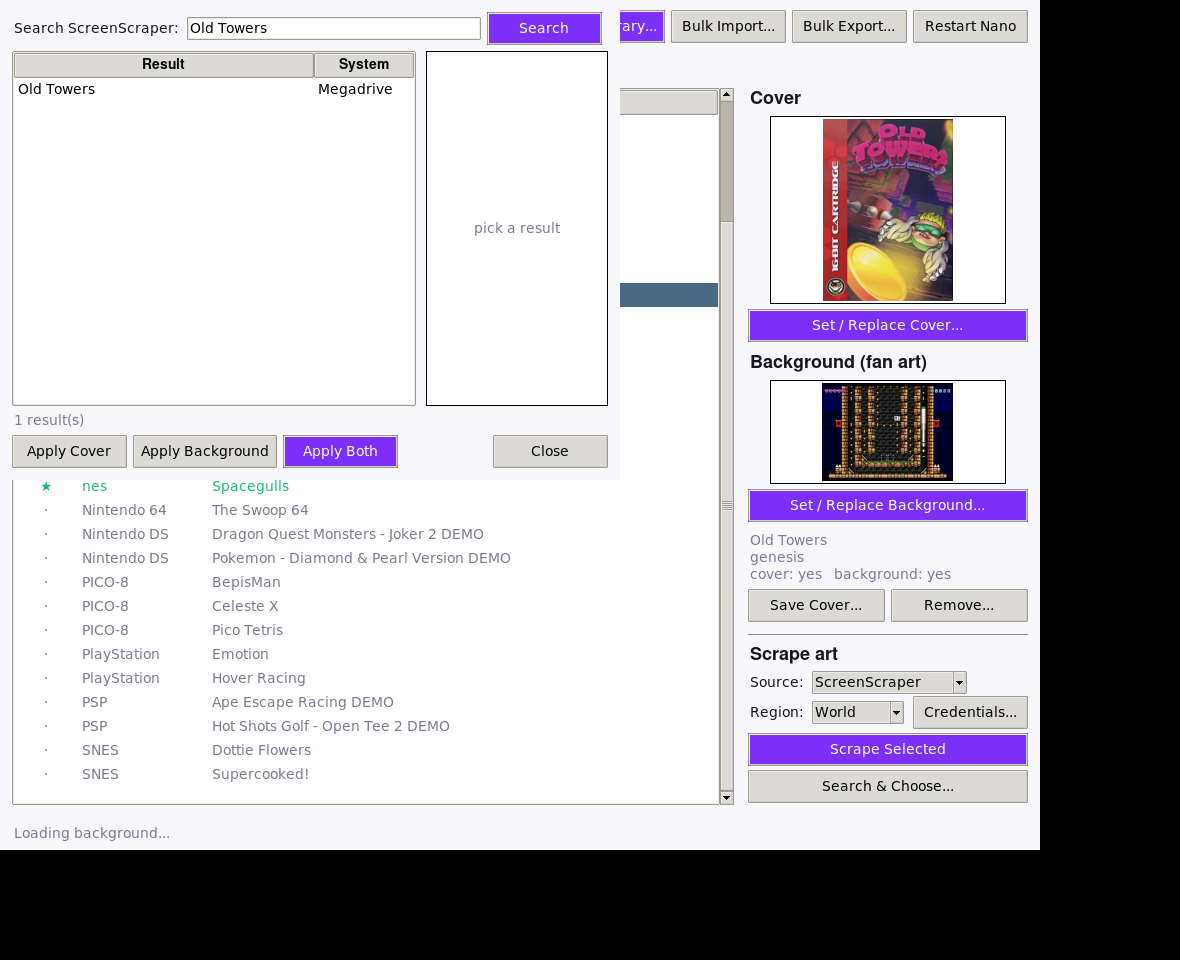
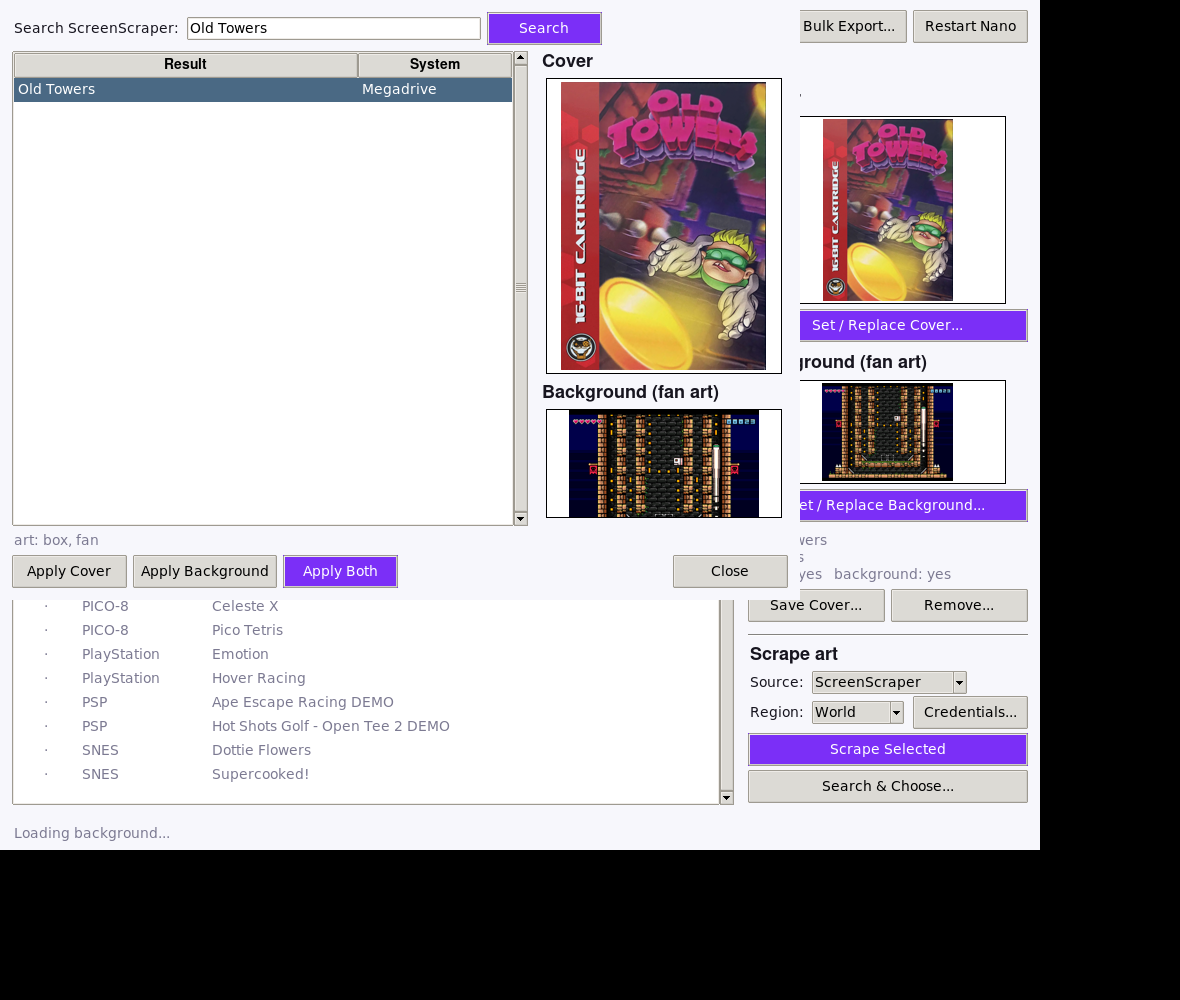
Fix scrape apply/refresh, show full art previews and game paths, v1.3.2
Search and Choose: the preview now shows the full cover and full background in fixed boxes (was clipped on Windows). Applying a chosen result, and every other device action, runs off the UI thread and reliably reloads the list, so covers appear without a manual refresh and Restart Nano no longer just spins. The game list gained a Path column (with horizontal scroll) and you can filter by path.

Changed region(s): [[0.0, 0.0, 0.8847, 0.9062], [0.0, 0.4375, 0.4271, 0.8125], [0.7932, 0.0, 0.8542, 0.0312]]

diff --git a/gammaos_boxart/gui.py b/gammaos_boxart/gui.py
@@ -102,20 +102,28 @@ class BoxartGUI(tk.Tk):
 
         left = ttk.Frame(main)
         left.pack(side=tk.LEFT, fill=tk.BOTH, expand=True)
-        cols = ("box", "system", "game")
-        self.tree = ttk.Treeview(left, columns=cols, show="headings", selectmode="extended")
+        # Tree + vertical scrollbar on top, horizontal scrollbar below (so the full
+        # game path is reachable even though it is wider than its column).
+        tv = ttk.Frame(left)
+        tv.pack(side=tk.TOP, fill=tk.BOTH, expand=True)
+        cols = ("box", "system", "game", "path")
+        self.tree = ttk.Treeview(tv, columns=cols, show="headings", selectmode="extended")
         self.tree.heading("box", text="Boxart")
         self.tree.heading("system", text="System")
         self.tree.heading("game", text="Game")
-        self.tree.column("box", width=64, anchor="center", stretch=False)
-        self.tree.column("system", width=130, stretch=False)
-        self.tree.column("game", width=360)
+        self.tree.heading("path", text="Path")
+        self.tree.column("box", width=56, anchor="center", stretch=False)
+        self.tree.column("system", width=110, stretch=False)
+        self.tree.column("game", width=230, stretch=False)
+        self.tree.column("path", width=300)
         self.tree.tag_configure("has", foreground="#1eb877")
         self.tree.tag_configure("no", foreground="#7c7a92")
-        vsb = ttk.Scrollbar(left, orient="vertical", command=self.tree.yview)
-        self.tree.configure(yscrollcommand=vsb.set)
+        vsb = ttk.Scrollbar(tv, orient="vertical", command=self.tree.yview)
+        hsb = ttk.Scrollbar(left, orient="horizontal", command=self.tree.xview)
+        self.tree.configure(yscrollcommand=vsb.set, xscrollcommand=hsb.set)
         self.tree.pack(side=tk.LEFT, fill=tk.BOTH, expand=True)
         vsb.pack(side=tk.LEFT, fill=tk.Y)
+        hsb.pack(side=tk.TOP, fill=tk.X)
         self.tree.bind("<<TreeviewSelect>>", self.on_select)
 
         # right: preview + actions
@@ -237,10 +245,11 @@ class BoxartGUI(tk.Tk):
         for i, g in enumerate(self.games):
             if only and not g.has_box:
                 continue
-            if q and q not in g.display.lower() and q not in g.system.lower():
+            if q and q not in g.display.lower() and q not in g.system.lower() \
+                    and q not in g.rom.lower():
                 continue
             mark = "★" if g.has_box else "·"
-            self.tree.insert("", "end", iid=str(i), values=(mark, g.system, g.display),
+            self.tree.insert("", "end", iid=str(i), values=(mark, g.system, g.display, g.rom),
                              tags=("has" if g.has_box else "no",))
 
     def _selected_game(self):
@@ -325,7 +334,7 @@ class BoxartGUI(tk.Tk):
         with tempfile.TemporaryDirectory() as td:
             self.bx.set_art(g.rom, img, td, kind=kind)
         self.bx.adb.restart_nano()
-        self.after(0, self.refresh)
+        self._load_games()
         self.after(0, lambda: self._set_status("Set %s for %s" % (
             "background" if kind == "fan" else "cover", g.display)))
 
@@ -357,7 +366,7 @@ class BoxartGUI(tk.Tk):
         with tempfile.TemporaryDirectory() as td:
             self.bx.remove_art(g.rom, td, kind=kind)
         self.bx.adb.restart_nano()
-        self.after(0, self.refresh)
+        self._load_games()
 
     def save_cover_as(self):
         g = self._selected_game()
@@ -384,7 +393,7 @@ class BoxartGUI(tk.Tk):
             applied, _ = self.bx.import_dir(d, td, mode="auto")
         if applied:
             self.bx.adb.restart_nano()
-        self.after(0, self.refresh)
+            self._load_games()
         self.after(0, lambda: self._set_status("Imported %d covers" % applied))
 
     def bulk_export(self):
@@ -597,8 +606,8 @@ class BoxartGUI(tk.Tk):
                     self.bx.adb.restart_nano()
                 except Exception:  # noqa: BLE001
                     pass
+                self._load_games()
             self.after(0, lambda: finish(matched, scanned, err))
-            self.after(0, self.refresh)
 
         threading.Thread(target=worker, daemon=True).start()
 
@@ -631,7 +640,8 @@ class BoxartGUI(tk.Tk):
         win = tk.Toplevel(self)
         win.title("Search and Choose - %s" % g.display)
         win.transient(self)
-        win.geometry("620x480")
+        win.geometry("800x600")
+        win.minsize(760, 560)
         win.grab_set()
 
         top = ttk.Frame(win, padding=(12, 12, 12, 6))
@@ -643,22 +653,69 @@ class BoxartGUI(tk.Tk):
 
         mid = ttk.Frame(win, padding=(12, 0))
         mid.pack(fill=tk.BOTH, expand=True)
-        res = ttk.Treeview(mid, columns=("t", "s"), show="headings", height=9, selectmode="browse")
+        lf = ttk.Frame(mid)
+        lf.pack(side=tk.LEFT, fill=tk.BOTH, expand=True)
+        res = ttk.Treeview(lf, columns=("t", "s"), show="headings", height=12, selectmode="browse")
         res.heading("t", text="Result")
         res.heading("s", text="System")
-        res.column("t", width=300)
-        res.column("s", width=100)
+        res.column("t", width=280)
+        res.column("s", width=90)
+        rsb = ttk.Scrollbar(lf, orient="vertical", command=res.yview)
+        res.configure(yscrollcommand=rsb.set)
         res.pack(side=tk.LEFT, fill=tk.BOTH, expand=True)
-        pv = tk.Label(mid, width=26, bg="#ffffff", relief="solid", bd=1, text="pick a result",
-                      fg="#7c7a92")
-        pv.pack(side=tk.LEFT, fill=tk.Y, padx=(10, 0))
+        rsb.pack(side=tk.LEFT, fill=tk.Y)
+
+        # Fixed-pixel preview boxes (Frame + pack_propagate off) so the cover and the
+        # background always render at a known size and are never clipped, on any platform.
+        pvcol = ttk.Frame(mid, width=248)
+        pvcol.pack(side=tk.LEFT, fill=tk.Y, padx=(12, 0))
+        pvcol.pack_propagate(False)
+        ttk.Label(pvcol, text="Cover", style="Head.TLabel").pack(anchor="w")
+        cbox = tk.Frame(pvcol, width=236, height=296, bg="#ffffff", relief="solid", bd=1)
+        cbox.pack(pady=(4, 8))
+        cbox.pack_propagate(False)
+        pv_box = tk.Label(cbox, bg="#ffffff", text="pick a result", fg="#7c7a92")
+        pv_box.pack(fill=tk.BOTH, expand=True)
+        ttk.Label(pvcol, text="Background (fan art)", style="Head.TLabel").pack(anchor="w")
+        fbox = tk.Frame(pvcol, width=236, height=150, bg="#ffffff", relief="solid", bd=1)
+        fbox.pack(pady=(4, 8))
+        fbox.pack_propagate(False)
+        pv_fan = tk.Label(fbox, bg="#ffffff", text="none", fg="#7c7a92")
+        pv_fan.pack(fill=tk.BOTH, expand=True)
 
         st = ttk.Label(win, text="", style="Dim.TLabel", padding=(12, 4))
         st.pack(fill=tk.X)
         bf = ttk.Frame(win, padding=(12, 0, 12, 12))
         bf.pack(fill=tk.X)
 
-        state = {"cands": [], "result": None, "img": None}
+        state = {"cands": [], "result": None, "imgs": {}}
+
+        def render_art(data, label, key, maxsz, empty):
+            if not data:
+                state["imgs"].pop(key, None)
+                label.config(image="", text=empty)
+                return
+            local = os.path.join(self._tmp, "search_%s.img" % key)
+            with open(local, "wb") as f:
+                f.write(data)
+            img = None
+            if _HAVE_PIL:
+                try:
+                    im = Image.open(local)
+                    im.thumbnail(maxsz)
+                    img = ImageTk.PhotoImage(im)
+                except Exception:
+                    img = None
+            if img is None:
+                try:
+                    img = tk.PhotoImage(file=local)
+                except Exception:
+                    img = None
+            if img is not None:
+                state["imgs"][key] = img
+                label.config(image=img, text="")
+            else:
+                label.config(image="", text="(found; install Pillow to preview)")
 
         def do_search():
             res.delete(*res.get_children())
@@ -678,6 +735,9 @@ class BoxartGUI(tk.Tk):
                     for i, c in enumerate(cands):
                         res.insert("", "end", iid=str(i), values=(c.title, c.system))
                     st.config(text=err or ("%d result(s)" % len(cands)))
+                    if os.environ.get("GBT_SEARCH") and cands:
+                        res.selection_set("0")
+                        on_pick()
                 self.after(0, show)
             threading.Thread(target=work, daemon=True).start()
 
@@ -687,7 +747,8 @@ class BoxartGUI(tk.Tk):
                 return
             cand = state["cands"][int(sel[0])]
             st.config(text="loading art...")
-            pv.config(image="", text="loading...")
+            pv_box.config(image="", text="loading...")
+            pv_fan.config(image="", text="loading...")
             state["result"] = None
 
             def work():
@@ -698,30 +759,8 @@ class BoxartGUI(tk.Tk):
 
                 def show():
                     state["result"] = r
-                    if r and r.box:
-                        local = os.path.join(self._tmp, "search_prev.img")
-                        with open(local, "wb") as f:
-                            f.write(r.box)
-                        img = None
-                        if _HAVE_PIL:
-                            try:
-                                im = Image.open(local)
-                                im.thumbnail((180, 240))
-                                img = ImageTk.PhotoImage(im)
-                            except Exception:
-                                img = None
-                        if img is None:
-                            try:
-                                img = tk.PhotoImage(file=local)
-                            except Exception:
-                                img = None
-                        if img is not None:
-                            state["img"] = img
-                            pv.config(image=img, text="")
-                        else:
-                            pv.config(image="", text="(cover found)")
-                    else:
-                        pv.config(image="", text="no cover")
+                    render_art(r.box if r else None, pv_box, "box", (224, 288), "no cover")
+                    render_art(r.fan if r else None, pv_fan, "fan", (224, 142), "no background")
                     have = [k for k in ("box", "fan") if r and getattr(r, k)]
                     st.config(text=("art: " + ", ".join(have)) if have else "no usable art")
                 self.after(0, show)
@@ -733,11 +772,22 @@ class BoxartGUI(tk.Tk):
         def apply(kinds):
             r = state["result"]
             if not r:
+                self._set_status("Pick a result first")
                 return
-            applied = self._apply_from_result(g.rom, r, kinds)
+            if not any(getattr(r, k, None) for k in kinds):
+                messagebox.showinfo("Apply", "This result has no matching art to apply.")
+                return
             win.destroy()
-            if applied:
-                self._run("Applying + restarting Nano...", self._apply_finish)
+
+            def work():
+                applied = self._apply_from_result(g.rom, r, kinds)
+                if applied:
+                    self.bx.adb.restart_nano()
+                    self._load_games()
+                self.after(0, lambda: self._set_status(
+                    ("Applied " + ", ".join("background" if k == "fan" else "cover" for k in applied))
+                    if applied else "No art to apply"))
+            self._run("Applying art + restarting Nano...", work)
 
         ttk.Button(bf, text="Apply Cover", command=lambda: apply(["box"])).pack(side=tk.LEFT)
         ttk.Button(bf, text="Apply Background", command=lambda: apply(["fan"])).pack(side=tk.LEFT, padx=6)
@@ -748,14 +798,14 @@ class BoxartGUI(tk.Tk):
         ent.bind("<Return>", lambda _e: do_search())
         do_search()
 
-    def _apply_finish(self):
-        self.bx.adb.restart_nano()
-        self.after(0, self.refresh)
-        self.after(0, lambda: self._set_status("Applied chosen art"))
-
     def restart_nano(self):
-        if self.bx:
-            self._run("Restarting Nano...", self.bx.adb.restart_nano)
+        if not self.bx:
+            return
+
+        def work():
+            self.bx.adb.restart_nano()
+            self.after(0, lambda: self._set_status("Nano restarted"))
+        self._run("Restarting Nano...", work)
 
     # -- worker plumbing ----------------------------------------------------
     def _run(self, status, fn, busy_ui=True):

diff --git a/gammaos_boxart/__init__.py b/gammaos_boxart/__init__.py
@@ -1,5 +1,5 @@
 """GammaOS Boxart Tool: view, replace, add and bulk manage GammaOS Nano boxart over ADB."""
 
-__version__ = "1.3.1"
+__version__ = "1.3.2"
 
 from .core import Adb, Boxart, Game, cache_key, AdbError  # noqa: F401

diff --git a/README.md b/README.md
@@ -64,7 +64,7 @@ python3 gammaos-boxart.py --gui        # GUI
 
 ## GUI
 
-Launch `gammaos-boxart-gui`. It connects to the first device, lists your games (games that already have a cover are marked with a star), and shows the current **cover** and **background** on the right. Pick a game and:
+Launch `gammaos-boxart-gui`. It connects to the first device and lists your games with their System, name, on-device **path**, and a star for games that already have a cover, and shows the current **cover** and **background** on the right. Filter by name, system or path; Ctrl or Shift click to select several. Pick a game and:
 
 - **Scrape Selected** scrape the highlighted game(s). Ctrl or Shift click to pick several, or search then select.
 - **Search & Choose...** search the scraper by keyword and pick exactly which result and which art to apply.
